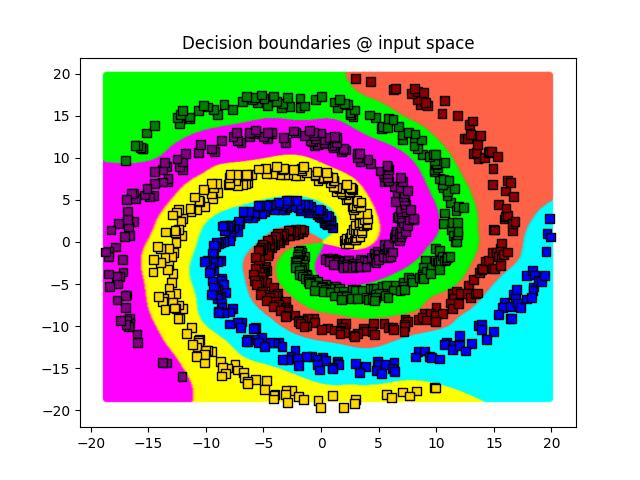
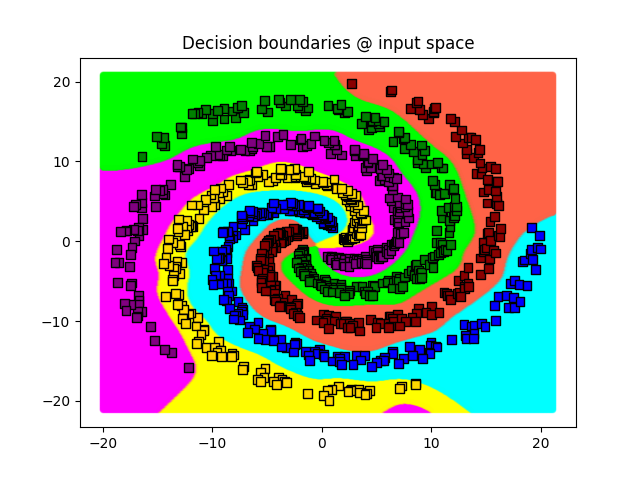
with animation

diff --git a/spiralNet.py b/spiralNet.py
@@ -14,7 +14,7 @@ numbClasses = 5
 plotDir = 'plotDir'
 learningRate = 0.0005
 L2reg = 0.005
-numEpochs = 8000
+numEpochs = 10000
 
 dataHolder = tf.placeholder(tf.float32, [None, 2]) # data is in R2
 labelsHolder = tf.placeholder(tf.float32, [None, numbClasses])
@@ -36,7 +36,21 @@ init = tf.global_variables_initializer()
 
 spiralData = list(map(makeSpiral, range(numbClasses)))
 
+hiddenCheckPoints = set(map(int, np.logspace(np.log10(1), np.log10(numEpochs-1), 350)))
+
 with tf.Session() as sess:
+
+    def hiddenLayerPlotter(epoch='Final', gridFill=False, saveDir='framesDir'):
+        f, ax = plt.subplots()
+        hidden2Values = hidden2.eval({dataHolder: positionData})
+        if gridFill:
+            hiddenGrid = makeGrid(hidden2Values)
+            probMap = tf.nn.softmax(outputLogits).eval({hidden2: hiddenGrid})
+            ax.scatter(hiddenGrid[:, 0], hiddenGrid[:, 1], c=bgColor(np.argmax(probMap, 1)))
+        ax.scatter(hidden2Values[:, 0], hidden2Values[:, 1], s=40, cmap=plt.cm.Spectral, edgecolor='black', marker='s', linewidth=1, c=markerColor(np.argmax(labelData, 1)))
+        ax.set_title('Decision boundaries @ last hidden layer ; %s' % epoch)
+        plt.savefig('%s/decisionBoundaries.%s.png' % (saveDir, epoch)); plt.close()
+     
     sess.run(init)
     positionData, labelData = extractElem(0, spiralData), tf.one_hot(extractElem(1, spiralData), depth=numbClasses).eval()
 
@@ -46,6 +60,7 @@ with tf.Session() as sess:
         _, _lossValue, _crossEntropyLoss, _L2RegLoss = sess.run([optimizer, lossValue, crossEntropyLoss, L2RegLoss], {dataHolder: positionData, labelsHolder: labelData})
         crossEntropyLossValues.append(_crossEntropyLoss)
         _accuracy = accuracy.eval({dataHolder: positionData, labelsHolder: labelData})
+        if epoch in hiddenCheckPoints:	hiddenLayerPlotter(epoch)
         print('%d\t\tcrossEntropy = %f\tL2 = %f\ttotal = %f\taccuracy = %f' % (epoch, _crossEntropyLoss, _L2RegLoss, _lossValue, _accuracy))
 
     print('Optimization Finished!')
@@ -57,12 +72,4 @@ with tf.Session() as sess:
 
     # optimizedWeights = {x.name: tf.get_default_graph().get_tensor_by_name(x.name).eval() for x in tf.trainable_variables()}
 
-    hidden2Values = hidden2.eval({dataHolder: positionData})
-    hiddenGrid = makeGrid(hidden2Values)
-    probMap = tf.nn.softmax(outputLogits).eval({hidden2: hiddenGrid})
-    f, ax = plt.subplots()
-    ax.scatter(hiddenGrid[:, 0], hiddenGrid[:, 1], c=bgColor(np.argmax(probMap, 1)))
-    ax.scatter(hidden2Values[:, 0], hidden2Values[:, 1], s=40, cmap=plt.cm.Spectral, edgecolor='black', marker='s', linewidth=1, c=markerColor(np.argmax(labelData, 1)))
-    ax.set_title('Decision boundaries @ last hidden layer')
-    plt.savefig('%s/decisionBoundaries.png' % plotDir); plt.close()
-
+    hiddenLayerPlotter(gridFill=True, saveDir=plotDir) 
